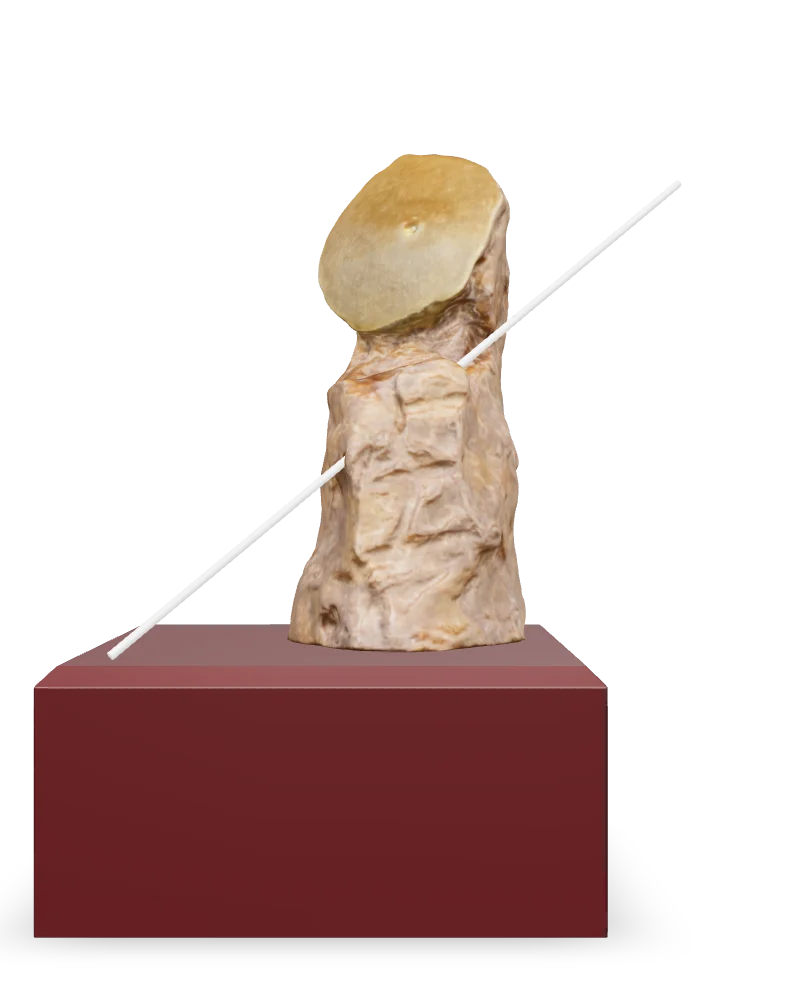
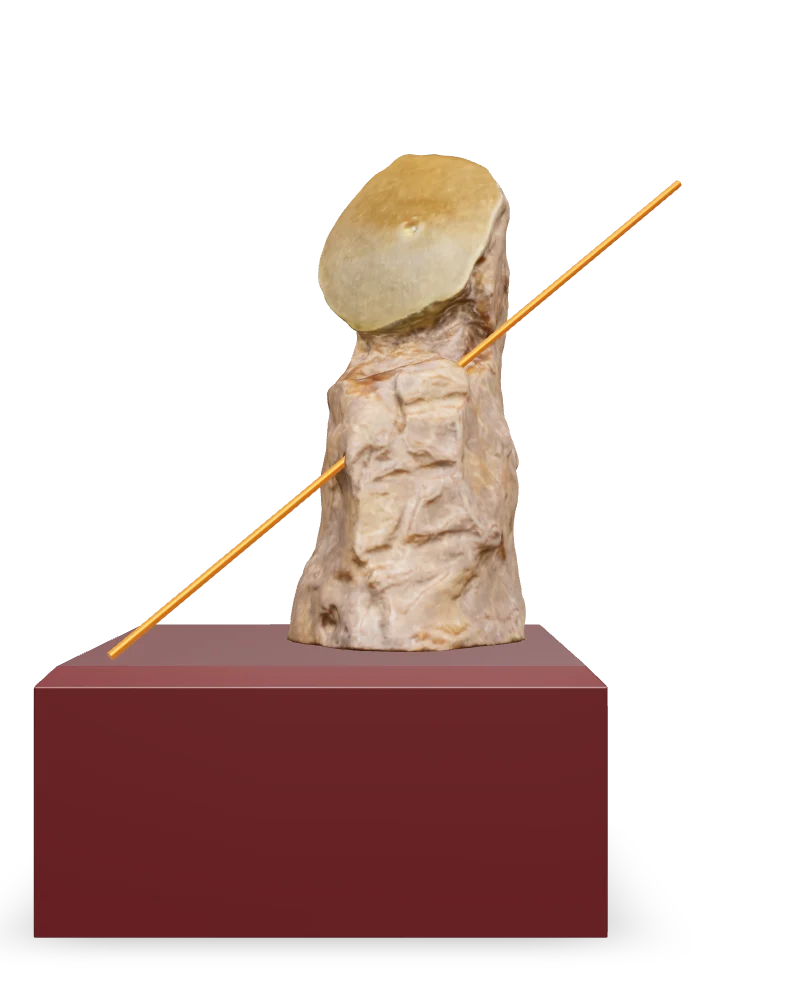
Replace the model of Untitled (Figure with Spear)
The new scan gives the spear a metallic orange material; it had no colour before and rendered white.

diff --git a/lib/sculptures.ts b/lib/sculptures.ts
@@ -459,7 +459,7 @@ export const sculptures: Sculpture[] = [
     description: "",
     artistSlug: "",
     thumbnail: "/thumbnails/untitled-figure-with-spear.webp",
-    modelUrl: "/sculptures/untitled-figure-with-spear.glb",
+    modelUrl: "/sculptures/untitled-figure-with-spear.glb?v=2",
     facing: 270,
     material: "",
     year: "",
